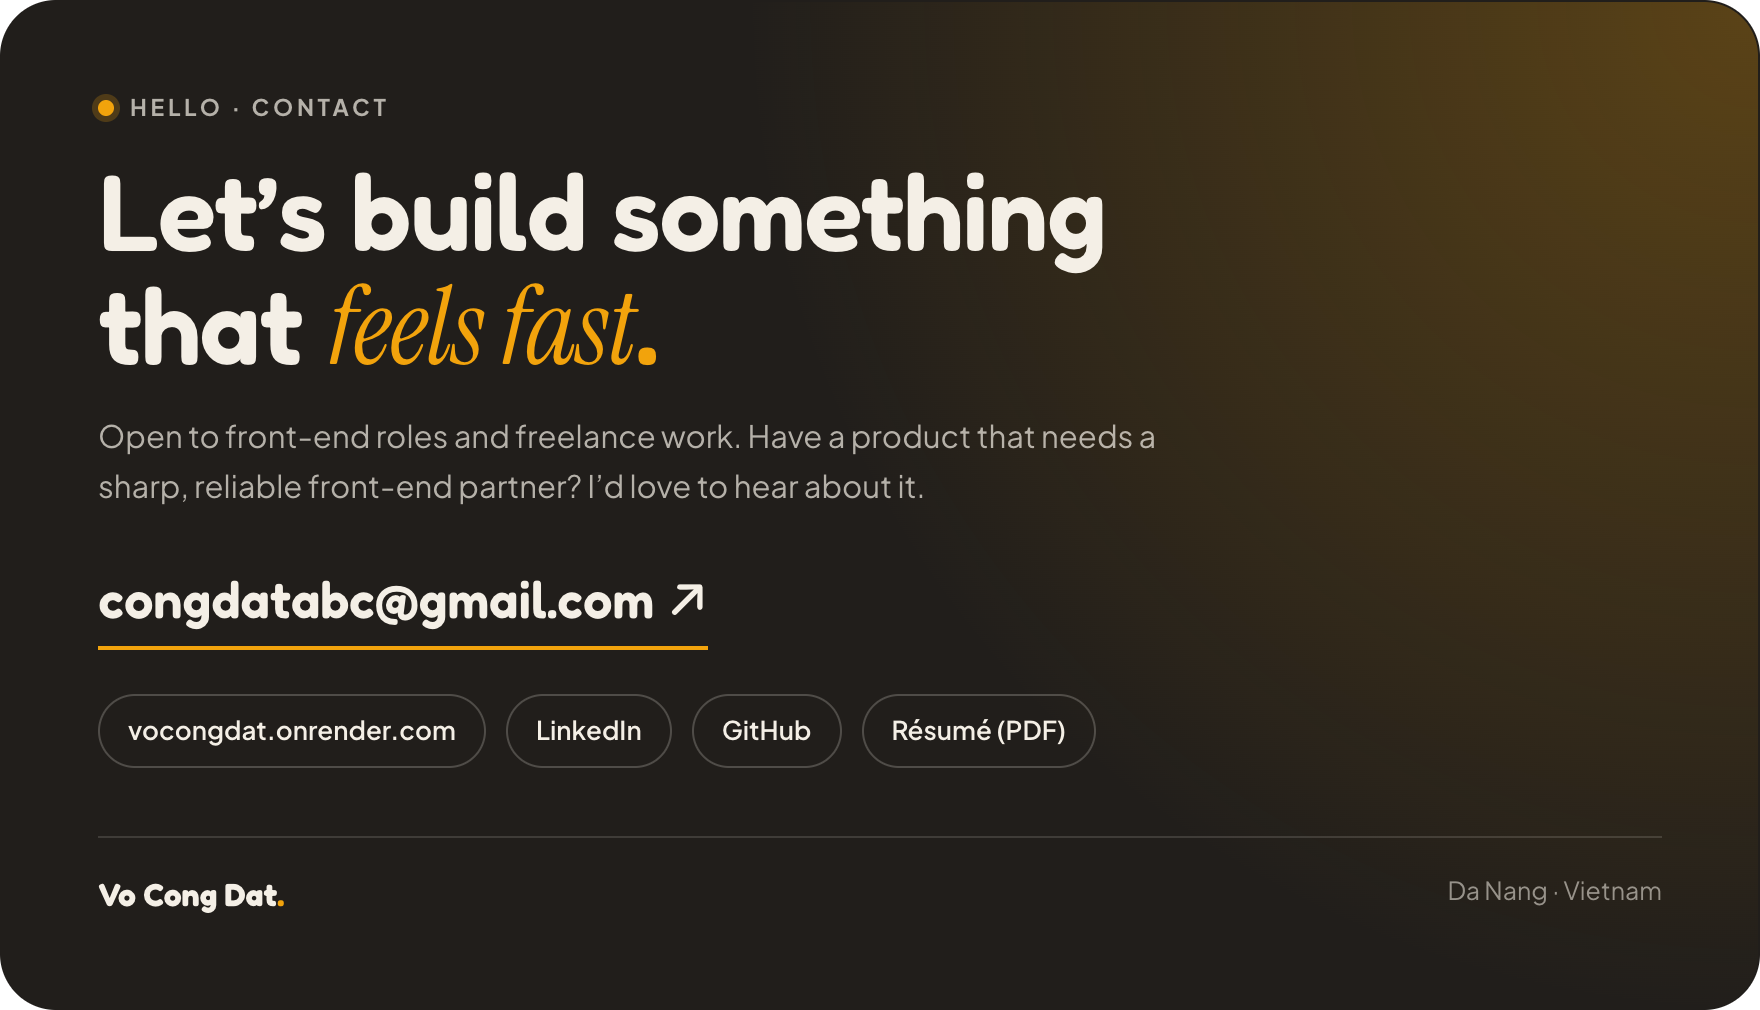
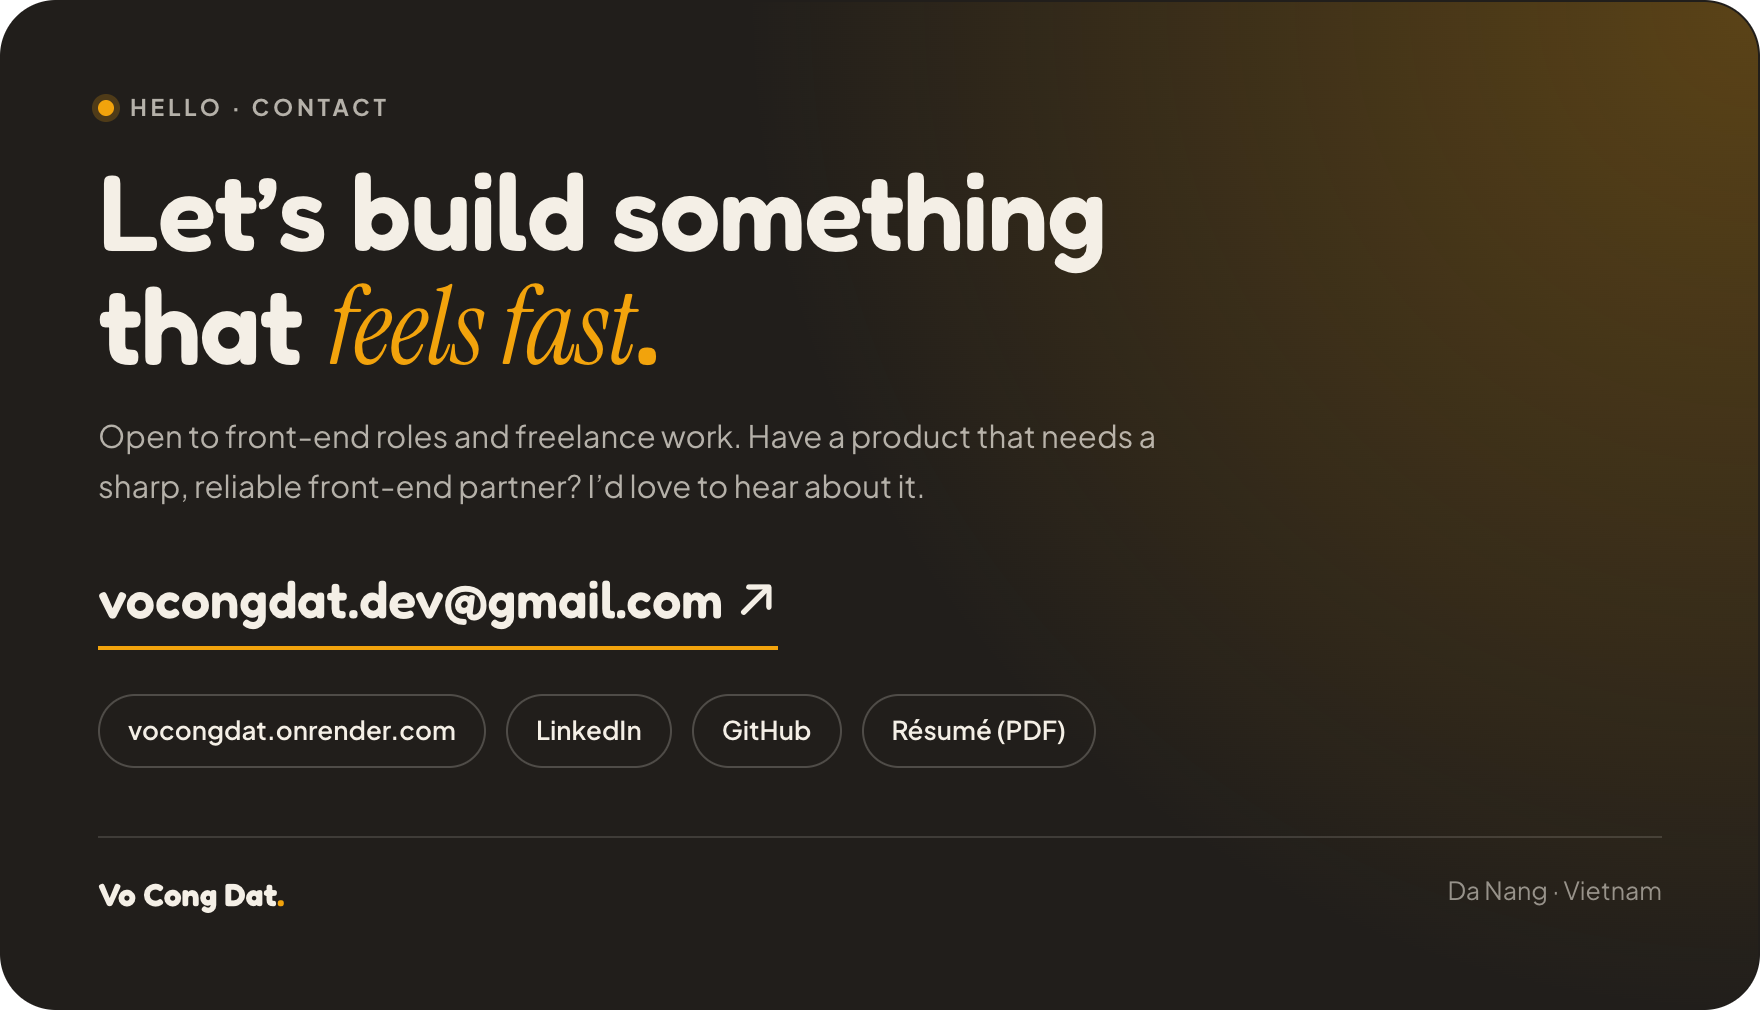
docs: update contact email

Changed region(s): [[0.0625, 0.5525, 0.4375, 0.6446]]

diff --git a/assets/src/cards.html b/assets/src/cards.html
@@ -254,7 +254,7 @@ section:target{display:block}
   <p class="eyebrow">Hello · Contact</p>
   <h2 class="title">Let’s build something<br>that <em>feels fast</em><span class="dot">.</span></h2>
   <p class="lede">Open to front-end roles and freelance work. Have a product that needs a sharp, reliable front-end partner? I’d love to hear about it.</p>
-  <span class="mail">congdatabc@gmail.com ↗</span>
+  <span class="mail">vocongdat.dev@gmail.com ↗</span>
   <div class="links"><span>vocongdat.onrender.com</span><span>LinkedIn</span><span>GitHub</span><span>Résumé (PDF)</span></div>
   <div class="sign"><span><b>Vo Cong Dat<span class="dot">.</span></b></span><span>Da Nang · Vietnam</span></div>
 </div></section>

diff --git a/README.md b/README.md
@@ -9,7 +9,7 @@
 <a href="https://vocongdat.onrender.com/"><img src="https://img.shields.io/badge/Portfolio-211E1B?style=for-the-badge&logo=googlechrome&logoColor=F2A30C" alt="Portfolio"></a>
 <a href="https://vocongdat.onrender.com/public/assets/cv/CV_Vo_Cong_Dat_Software_Engineer.pdf"><img src="https://img.shields.io/badge/Résumé-211E1B?style=for-the-badge&logo=readthedocs&logoColor=F2A30C" alt="Résumé (PDF)"></a>
 <a href="https://www.linkedin.com/in/vocongdat/"><img src="https://img.shields.io/badge/LinkedIn-211E1B?style=for-the-badge&logo=linkedin&logoColor=F2A30C" alt="LinkedIn"></a>
-<a href="mailto:congdatabc@gmail.com"><img src="https://img.shields.io/badge/congdatabc@gmail.com-F2A30C?style=for-the-badge&logo=gmail&logoColor=211E1B" alt="Email"></a>
+<a href="mailto:vocongdat.dev@gmail.com"><img src="https://img.shields.io/badge/vocongdat.dev@gmail.com-F2A30C?style=for-the-badge&logo=gmail&logoColor=211E1B" alt="Email"></a>
 
 <br><br>
 
@@ -37,8 +37,8 @@
 
 <br><br>
 
-<a href="mailto:congdatabc@gmail.com">
-  <img src="assets/contact.png" width="100%" alt="Let's build something that feels fast. Open to front-end roles and freelance work — congdatabc@gmail.com">
+<a href="mailto:vocongdat.dev@gmail.com">
+  <img src="assets/contact.png" width="100%" alt="Let's build something that feels fast. Open to front-end roles and freelance work — vocongdat.dev@gmail.com">
 </a>
 
 </div>
